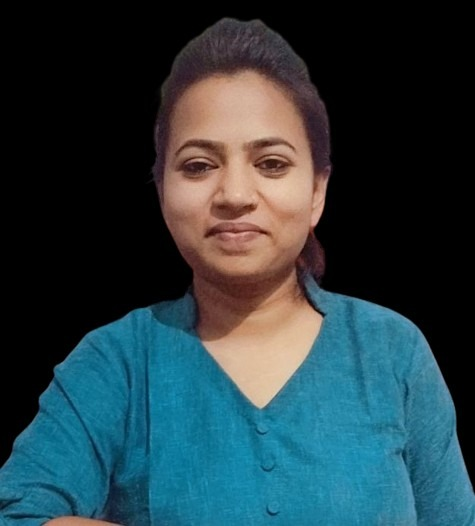
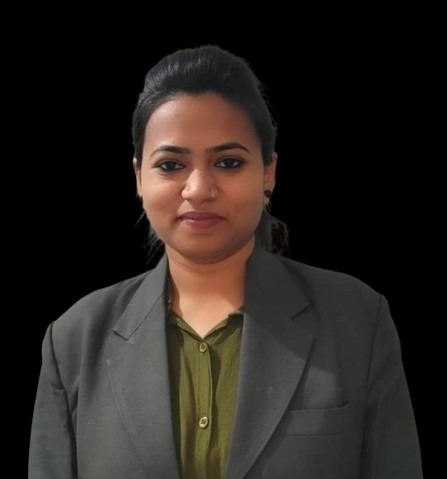
updated profile pic

diff --git a/src/data/headerData.js b/src/data/headerData.js
@@ -4,6 +4,6 @@ export const headerData = {
     name: 'Sumitra Awadhiya',
     title: "Hello! I'am",
     desciption:"There wasn't a bird in the sky, but that was not what caught her attention. It was the clouds. The deep green that isn't the color of clouds, but came with these. She knew what was coming and she hoped she was prepared. ",
-    image: '/sumi-pic.jpg',
+    image: './sumi-pic.jpg',
     resumePdf: resume
 }
